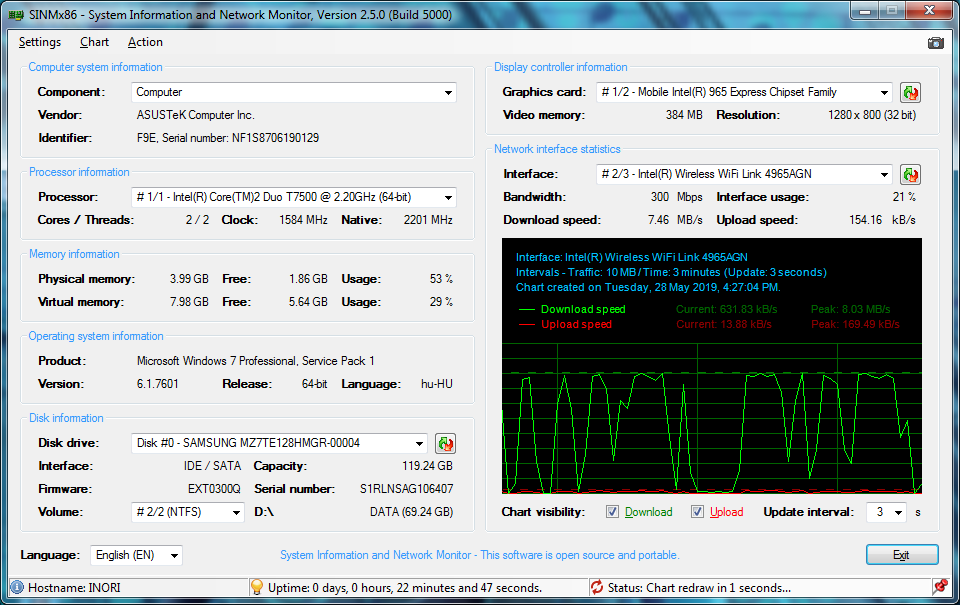
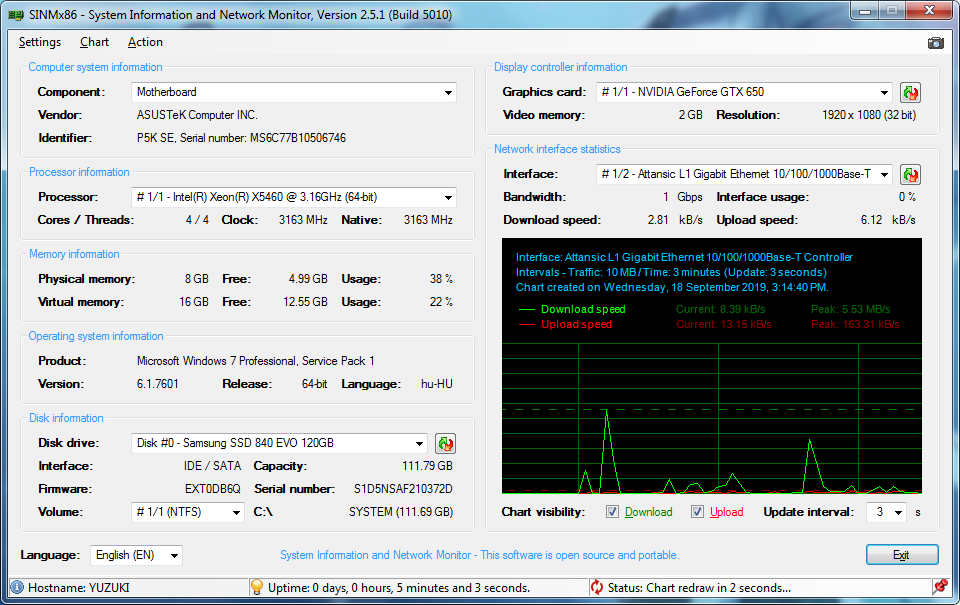
Version 2.5.1 Build 5010

diff --git a/README.md b/README.md
@@ -4,7 +4,7 @@
 A simple system information and real-time network monitoring utility.\
 This utility reads all system information directly from WMI database.
 
-## Current stable version: 2.5.0 Build 5000 (2019-05-29)
+## Current stable version: 2.5.1 Build 5010 (2019-09-18)
 
 ![](Screenshots/SINMx86_LoadSplash.png)
 
@@ -20,6 +20,13 @@ __License:__ GNU General Public License v2.0.
 ![](Screenshots/SINMx86_MainWindow_Win7.png)
 
 ## Changelog since version 2.1.0 (Hungarian only)
+
+__2019-09-18 - Version 2.5.1 / Build 5010 (stable)__
+
+- Feketelistás OEM sztringek tömbösített keresése a komponens információkban,
+- Buboréküzenet hiba javítása kis méretre alakítás esetén,
+- Lista ToolTip-ek cseréje: magyarázat helyett a teljes kiválasztás nevének kiírása,
+- Frissítési link javítása, már a legfrisebb stabil kiadásra mutat.
 
 __2019-05-29 - Version 2.5.0 / Build 5000 (stable)__
 
